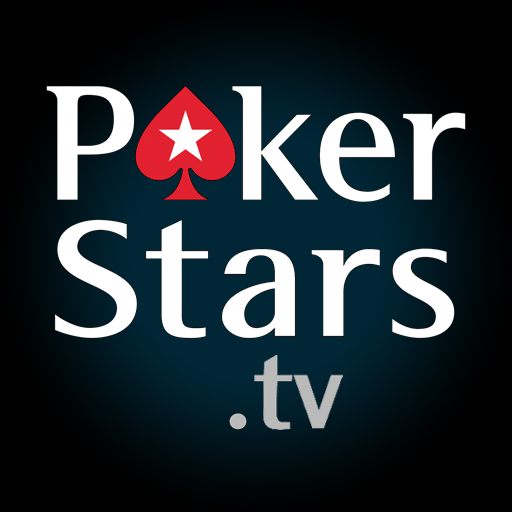
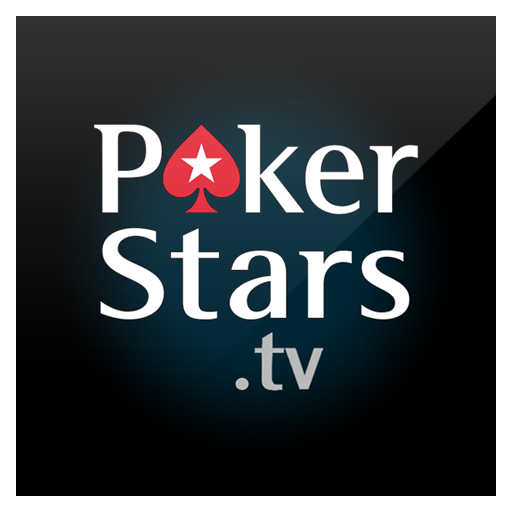
Changes before initial release

diff --git a/Contents/Code/__init__.py b/Contents/Code/__init__.py
@@ -4,7 +4,7 @@ from datetime import datetime
 from email.utils import parsedate
 
 PLUGIN_TITLE               = 'PokerStars.tv'
-PLUGIN_PREFIX              = '/video/pokerstars-tv'
+PLUGIN_PREFIX              = '/video/pokerstarstv'
 
 # URLS
 BASE_URL                   = 'http://www.pokerstars.tv'
@@ -12,7 +12,7 @@ CHANNELS_URL               = '%s/poker-channels' % BASE_URL
 SCHEDULE_URL               = '%s/docs-pokerstarstv-schedule.html' % BASE_URL
 
 # Default artwork and icon(s)
-PLUGIN_ARTWORK             = 'art-default.png'
+PLUGIN_ARTWORK             = 'art-default.jpg'
 PLUGIN_ICON_DEFAULT        = 'icon-default.png'
 
 ###############################################################################
@@ -21,15 +21,23 @@ def Start():
   Plugin.AddViewGroup('Channels', viewMode='InfoList', mediaType='items')
   Plugin.AddViewGroup('ChannelDetails', viewMode='InfoList', mediaType='items')
   Plugin.AddViewGroup('ChannelVideos', viewMode='InfoList', mediaType='items')
+
+  MediaContainer.title1 = L('pokerstars.tv')
+  MediaContainer.art = R(PLUGIN_ARTWORK)
+
+  DirectoryItem.thumb = R(PLUGIN_ICON_DEFAULT)
+  WebVideoItem.thumb = R(PLUGIN_ICON_DEFAULT)
+
   HTTP.CacheTime = CACHE_1HOUR
+  HTTP.Headers['User-Agent'] = 'Mozilla/5.0 (Macintosh; U; Intel Mac OS X 10.6; en-US; rv:1.9.2.13) Gecko/20101203 Firefox/3.6.13'
 
 ###################################################################################################
 # MENUS
 ###################################################################################################
 def MainMenu():
-  dir = MediaContainer(title1=PLUGIN_TITLE,viewGroup='Channels')
+  dir = MediaContainer(viewGroup='Channels')
   dir.Append(
-    Function( DirectoryItem( Spotlight, 'Spotlight', thumb=R(PLUGIN_ICON_DEFAULT) ) )
+    Function( DirectoryItem( Spotlight, 'Spotlight' ) )
   )
   
   channels = HTML.ElementFromURL( CHANNELS_URL, errors='ignore').xpath('//*/div[@id="template"]/ul/li/div[@class="content clearfix"]/a[@class="logo"]')
@@ -57,7 +65,7 @@ def MainMenu():
   
 ###################################################################################################
 def ChannelDetails(sender,url,name,thumb_url):
-  dir = MediaContainer(title1=L('pokerstars.tv'),title2=name,viewGroup='ChannelDetails')
+  dir = MediaContainer(title2=name, viewGroup='ChannelDetails')
   # url = url.replace('-2.html', '-full-episodes.html')
   # Log( 'Getting episodes from: ' + BASE_URL + url )
   # episodes = HTML.ElementFromURL( BASE_URL + url ).xpath()
@@ -84,7 +92,7 @@ def ChannelDetails(sender,url,name,thumb_url):
   
 ###################################################################################################
 def ChannelVideos(sender,url,channel_name,name):
-  dir = MediaContainer(title1=channel_name,title2=name,viewGroup='ChannelVideos')
+  dir = MediaContainer(title2=name, viewGroup='ChannelVideos')
   videos = GetChannelVideos( url )
   
   for video in videos:
@@ -102,7 +110,7 @@ def ChannelVideos(sender,url,channel_name,name):
   
 ###################################################################################################
 def Spotlight(sender):
-  dir = MediaContainer(title1=L('pokerstars.tv'),title2=L('spotlight'),viewGroup='ChannelVideos')
+  dir = MediaContainer(title2=L('spotlight'), viewGroup='ChannelVideos')
   highlights = HTML.ElementFromURL(SCHEDULE_URL, errors='ignore').xpath('//*/div[@id="template"]/div[@id="clm-two"]/div/div[@class="content spotlight"]/ul/li')
     
   for highlight in highlights:
@@ -116,7 +124,7 @@ def Spotlight(sender):
     if is_video:
       dir.Append(
         WebVideoItem(
-          BASE_URL + url,
+          url,
           title=title,
           thumb=Function(GetThumb, thumb_url=thumb_url),
           summary=desc
@@ -142,11 +150,12 @@ def Spotlight(sender):
 # HELPERS
 ###################################################################################################
 def GetThumb(thumb_url):
-  data = HTTP.Request(thumb_url)
-  if data:
+  try:
+    data = HTTP.Request(thumb_url, cacheTime=CACHE_1MONTH).content
     return DataObject(data, 'image/png')
-  else:
+  except:
     return Redirect(R(PLUGIN_ICON_DEFAULT))
+
     
 def GetChannelVideos(url, is_sub_page=False ):
   videos = []
